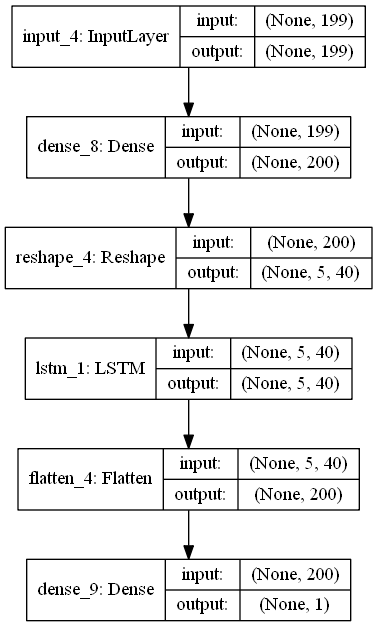
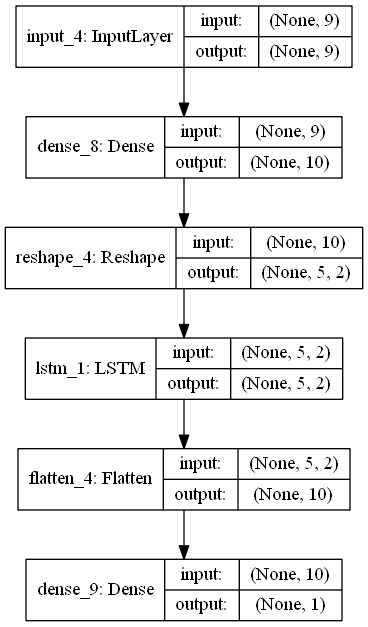
Add CLI options to set interactive and testing modes

diff --git a/src/main.py b/src/main.py
@@ -11,6 +11,7 @@
 # https://github.com/tensorflow/models/tree/master/research/adversarial_crypto
 # =================================================================
 
+import sys
 import tensorflow as tf
 from utils import utils
 from utils import vis_utils
@@ -18,38 +19,25 @@ from models.gan_discriminative import DiscriminativeGan
 from models.gan_predictive import PredictiveGan
 from evaluators import pnb
 
-# the 'dataset' for training is a 3D matrix, where each value in
-# dimension 0 is a "batch", each value in dimension 1 is a seed,
-# and each value in dimension 2 is a real number that is part of
-# the seed.
-#
-# Each epoch the model is trained on each "batch", where the batch
-# may be of any size n > 0. A batch size of 1 results in online
-# training, while any batch size n > 1 results in mini-batch or
-# batch training. The dataset is split into "batches" regardless of
-# whether online training or batch training is carried out, to
-# simplify the code.
 
-# if interactive, displays matplotlib graphs
-
-INTERACTIVE = False
-# todo why are these dictionaries if they're not passed anywhere
+INTERACTIVE = False         # if true outputs matplotlib graphs
+TESTING = True              # if true uses small parameters for rapid tests
 SETTINGS = {
-    'dataset_size': 2,
-    'unique_seeds': 2,
-    'seed_repetitions': 1,
+    'dataset_size': 4096 * 100 if not TESTING else 2,
+    'unique_seeds': 128 if not TESTING else 2,
+    'seed_repetitions': 8 if not TESTING else 1,
     'pretrain': True,
-    'batch_size': 1,
-    'epochs': 10,
-    'pretrain_epochs': 5,
+    'batch_size': 4096 if not TESTING else 1,
+    'epochs': 200000 if not TESTING else 5,
+    'pretrain_epochs': 10000 if not TESTING else 2,
     'adversary_multiplier': 2,
     'clip_value': 0.5,
     'learning_rate': 0.2
 }
 DATA_PARAMS = {
-    'max_val': 100,
+    'max_val': sys.maxsize if not TESTING else 100,
     'seed_length': 1,
-    'out_seq_length': 200
+    'out_seq_length': 5000 if not TESTING else 10
 }
 
 
@@ -57,6 +45,11 @@ def main():
     """Instantiates neural networks and runs the training procedure. Results
     are plotted visually."""
     tf.logging.set_verbosity(tf.logging.ERROR)
+    # command line arguments
+    global INTERACTIVE
+    global TESTING
+    INTERACTIVE = "-i" in sys.argv
+    TESTING = "-t" in sys.argv
 
     # approach 1: adversarial network with discriminator
     disc_gan = DiscriminativeGan(SETTINGS['dataset_size'],

diff --git a/src/models/gan_discriminative.py b/src/models/gan_discriminative.py
@@ -10,7 +10,6 @@
 # The original implementation by Abadi is available at
 # https://github.com/tensorflow/models/tree/master/research/adversarial_crypto
 # =================================================================
-import random
 import numpy as np
 from keras import Model
 from keras.layers import Input, Dense, SimpleRNN, Reshape, Flatten, Conv1D
@@ -31,7 +30,9 @@ class DiscriminativeGan:
     """
     def __init__(self, dataset_size=100, max_val=100, seed_length=10, output_length=300, lr=0.1, cv=1, batch_size=1):
         """Constructs the classical GAN according to the specifications
-        provided. Each specification variable is a dictionary."""
+        provided. Each specification variable is a dictionary.
+        :param dataset_size: the number of samples to be passed through the GAN at each epoch
+        """
         self.metrics = Metrics()
         self.dataset_size = dataset_size
         self.max_val = max_val
@@ -106,6 +107,9 @@ class DiscriminativeGan:
             utils.flatten_irregular_nested_iterable(self.discriminator.get_weights()))
 
     def generate_output_file(self):
+        """Produces an output text file consisting of 1s and 0s that
+        may be evaluated using tests for randomness, such as the NIST
+        test suite."""
         utils.save_sequence(
             self.generator.predict(
                 data.get_seed_dataset(self.max_val, self.seed_length, 1, int(self.dataset_size))), 'disc_sequence')

diff --git a/src/utils/vis_utils.py b/src/utils/vis_utils.py
@@ -8,7 +8,6 @@ from keras.utils import plot_model
 
 def plot_metrics(metrics: Metrics, data_range: int):
     """Draws visual plots of all available data using matplotlib."""
-
     # output distribution plot
     fig1 = plt.figure()
     # distribution of generated values during training
@@ -24,7 +23,6 @@ def plot_metrics(metrics: Metrics, data_range: int):
     plt.xlabel('Output')
     plt.ylabel('Frequency')
     fig1.show()
-
     # loss value charts
     fig2 = plt.figure()
     plt.plot(metrics.generator_loss())
@@ -33,14 +31,12 @@ def plot_metrics(metrics: Metrics, data_range: int):
     plt.xlabel('Epoch')
     plt.legend(['Generative loss', 'Predictive loss'])
     fig2.show()
-
     # Average output per batch during training
     fig3 = plt.figure()
     plt.plot(metrics.generator_avg_outputs())
     plt.ylabel('Average output per batch')
     plt.xlabel('Batch training iteration')
     fig3.show()
-
     # distribution of weights in generator
     fig4 = plt.figure()
     plt.subplot(211)
@@ -54,7 +50,6 @@ def plot_metrics(metrics: Metrics, data_range: int):
     plt.ylabel('Frequency')
     plt.xlabel('Weight')
     fig4.show()
-
     # distribution of weights in predictor
     fig5 = plt.figure()
     plt.subplot(211)
@@ -68,7 +63,7 @@ def plot_metrics(metrics: Metrics, data_range: int):
     plt.ylabel('Frequency')
     plt.xlabel('Weight')
     fig5.show()
-
+    # show all plots
     plt.show()
 
 

diff --git a/src/utils/utils.py b/src/utils/utils.py
@@ -5,7 +5,7 @@ import numpy as np
 from keras import Model
 from smtplib import SMTP
 from email.mime.multipart import MIMEMultipart
-from email.mime.text import  MIMEText
+from email.mime.text import MIMEText
 from email.mime.base import MIMEBase
 from email import encoders
 from models.metrics import Metrics
